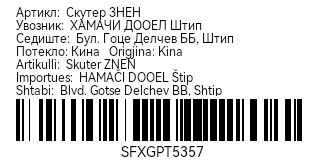
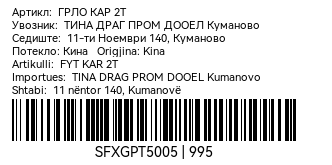
fix: include id

diff --git a/niimprint/barcode_gen.py b/niimprint/barcode_gen.py
@@ -1,12 +1,11 @@
 from io import BytesIO
-from PIL import Image
+from PIL import Image, ImageOps
 import barcode
 from wand.image import Image as WandImage
 from wand.drawing import Drawing as WandDrawing
 from wand.color import Color
 from barcode.writer import ImageWriter
 import requests
-import json
 import os
 
 
@@ -16,24 +15,10 @@ def calculate_dimensions(label_width_mm, label_height_mm, pixels_per_mm=8):
     return width_px, height_px
 
 
-def calculate_padding(padding_mm, pixels_per_mm=8):
-    return {k: int(v * pixels_per_mm) for k, v in padding_mm.items()}
-
-
-def generate_barcode(barcode_text, available_width, barcode_height, font_path):
+def generate_barcode(barcode_text, available_width, barcode_height):
     barcode_class = barcode.get_barcode_class("code128")
     barcode_writer = ImageWriter()
-    barcode_writer.set_options(
-        {
-            "module_width": 1,
-            "module_height": 1,
-            "write_text": False,
-            "font_size": 0,
-            "text": "test",
-            "human": "test",
-            "font_path": font_path,
-        }
-    )
+    barcode_writer.set_options({})
     barcode_image = barcode_class(barcode_text, writer=barcode_writer)
     barcode_buffer = BytesIO()
     barcode_image.write(barcode_buffer, options={"write_text": False, "quiet_zone": 0})
@@ -41,40 +26,49 @@ def generate_barcode(barcode_text, available_width, barcode_height, font_path):
     return barcode_img.resize((available_width, barcode_height), Image.NEAREST)
 
 
-def render_text_with_wand(text, width_px, height_px, font_path, font_size, x, y):
-    with WandImage(
-        width=width_px, height=height_px, background=Color("transparent")
-    ) as text_layer:
+def render_text_with_wand(text, font_path, font_size):
+    with WandImage(width=1, height=1) as tmp_image:
         with WandDrawing() as draw:
             draw.font = font_path
             draw.font_size = font_size
             draw.fill_color = Color("black")
-            draw.resolution = (300, 300)
+            draw.resolution = (900, 900)
 
-            draw.text(x, y, text)
+            metrics = draw.get_font_metrics(tmp_image, text)
+            width = int(metrics.text_width)
+            height = int(metrics.text_height)
 
-            draw(text_layer)
+            with WandImage(
+                width=width, height=height, background=Color("transparent")
+            ) as text_layer:
+                draw.text(0, int(metrics.ascender), text)
+                draw(text_layer)
 
-        text_layer.format = "png"
-        text_layer.alpha_channel = "activate"
-        text_buffer = BytesIO(text_layer.make_blob("png"))
-        return Image.open(text_buffer).convert("RGBA")
+                text_layer.format = "png"
+                text_layer.alpha_channel = "activate"
+                text_buffer = BytesIO(text_layer.make_blob("png"))
+
+    return Image.open(text_buffer).convert("RGBA")
 
 
-def generate_barcode_image(barcode_text, label_width_mm, label_height_mm, domain):
+def generate_barcode_image(
+    barcode,
+    label_width_mm,
+    label_height_mm,
+    domain,
+    include_id=False,
+):
+    horizontal_offset = 12
+    vertical_offset = 5
+
     pixels_per_mm = 8
     width_px, height_px = calculate_dimensions(
         label_width_mm, label_height_mm, pixels_per_mm
     )
 
-    padding_mm = {"top": 2.2, "right": 2.3, "left": 2}
-    padding_px = calculate_padding(padding_mm, pixels_per_mm)
+    print(f"Label dimensions: {width_px}px x {height_px}px")
 
-    available_width = width_px - padding_px["left"] - padding_px["right"]
-
-    response = requests.get(
-        f"https://{domain}/api/purchase-order?barcode={barcode_text}"
-    )
+    response = requests.get(f"https://{domain}/api/purchase-order?barcode={barcode}")
 
     if response.status_code != 200:
         print(response.text)
@@ -89,6 +83,12 @@ def generate_barcode_image(barcode_text, label_width_mm, label_height_mm, domain
     plt_company_name_alb = data["pltCompany"]["nameAlb"]
     plt_company_location = data["pltCompany"]["location"]
     plt_company_location_alb = data["pltCompany"]["locationAlb"]
+    register_id = data["product"]["id"]
+
+    barcode_text = barcode
+
+    if include_id:
+        barcode_text += f" | {register_id}"
 
     product_data = [
         f"Артикл:  {product_name}",
@@ -100,48 +100,58 @@ def generate_barcode_image(barcode_text, label_width_mm, label_height_mm, domain
         f"Shtabi:  {plt_company_location_alb}",
     ]
 
-    # use local path
     path = os.path.dirname(os.path.abspath(__file__))
     font_path = f"{path}/fonts/HarmonyOS_Sans_Regular.ttf"
 
-    image = Image.new("RGBA", (width_px, height_px), color=(255, 255, 255, 255))
+    image = Image.new("RGB", (width_px, height_px), color=(255, 255, 255))
 
-    product_font_size = int(height_px * 0.080)
-    text_height = product_font_size
-    spacing = int(height_px * 0.01)
-    current_y = padding_px["top"]
+    product_font_size = int(height_px * 0.072)
+    spacing = int(height_px * 0.005)
+    current_y = 0
 
-    for i, text in enumerate(product_data):
-        text_pil = render_text_with_wand(
-            text,
-            width_px,
-            height_px,
-            font_path,
-            product_font_size,
-            padding_px["left"],
-            current_y,
-        )
-        image.paste(text_pil, (0, 0), text_pil)
+    for text in product_data:
+        text_image = render_text_with_wand(text, font_path, product_font_size)
+        text_width, text_height = text_image.size
+        image.paste(text_image, (0, current_y), text_image)
         current_y += text_height + spacing
 
     barcode_height = int(height_px * 0.30)
-    barcode_img = generate_barcode(
-        barcode_text, available_width, barcode_height, font_path
-    )
-    image.paste(barcode_img, (padding_px["left"], current_y - text_height))
+
+    barcode_width = width_px - horizontal_offset * 3
+    barcode_img = generate_barcode(barcode_text, barcode_width, barcode_height)
+
+    # Center the barcode horizontally
+    barcode_x = (width_px - barcode_img.width) // 2
+    image.paste(barcode_img, (0, current_y))
 
     barcode_font_size = int(height_px * 0.09)
+    barcode_text_image = render_text_with_wand(
+        barcode_text, font_path, barcode_font_size
+    )
+    barcode_text_width, barcode_text_height = barcode_text_image.size
+
+    # Center the barcode text below the barcode
+    barcode_text_x = (barcode_width - barcode_text_width) // 2
 
     barcode_text_y = current_y + barcode_height + spacing
-    barcode_text_pil = render_text_with_wand(
-        barcode_text,
-        width_px,
-        height_px,
-        font_path,
-        barcode_font_size,
-        padding_px["left"] + 105,
-        barcode_text_y,
+    image.paste(
+        barcode_text_image, (barcode_text_x, barcode_text_y), barcode_text_image
     )
-    image.paste(barcode_text_pil, (0, 0), barcode_text_pil)
+
+    # Apply horizontal offset
+    if horizontal_offset > 0:
+        image = ImageOps.expand(
+            image, border=(horizontal_offset, 0, 0, 0), fill=(255, 255, 255)
+        )
+    elif horizontal_offset < 0:
+        image = image.crop((-horizontal_offset, 0, image.width, image.height))
+
+    # Apply vertical offset
+    if vertical_offset > 0:
+        image = ImageOps.expand(
+            image, border=(0, vertical_offset, 0, 0), fill=(255, 255, 255)
+        )
+    elif vertical_offset < 0:
+        image = image.crop((0, -vertical_offset, image.width, image.height))
 
     return image

diff --git a/niimprint/__main__.py b/niimprint/__main__.py
@@ -97,9 +97,38 @@ from printer import TCPTransport, PrinterClient, SerialTransport
     # required=True,
     help="Domain to print",
 )
+@click.option(
+    "-p",
+    "--preview",
+    type=click.BOOL,
+    default=False,
+    show_default=True,
+    help="Preview barcode",
+)
+@click.option(
+    "-id",
+    "--include-id",
+    type=click.BOOL,
+    default=False,
+    show_default=True,
+    help="Include ID",
+)
 def print_cmd(
-    model, conn, addr, density, rotate, image, verbose, copies, barcode, domain
+    model,
+    conn,
+    addr,
+    density,
+    rotate,
+    image,
+    verbose,
+    copies,
+    barcode,
+    domain,
+    preview,
+    include_id,
 ):
+
+    print(include_id)
     logging.basicConfig(
         level="DEBUG" if verbose else "INFO",
         format="%(levelname)s | %(module)s:%(funcName)s:%(lineno)d - %(message)s",
@@ -131,9 +160,10 @@ def print_cmd(
         density = 3
 
     if barcode is not None:
-        image = generate_barcode_image(barcode, 40, 20, domain)
-        save_and_open_image(image)
-        click.confirm("Contin/ue printing?", abort=True)
+        image = generate_barcode_image(barcode, 40, 20, domain, include_id)
+        if preview:
+            save_and_open_image(image)
+            click.confirm("Contin/ue printing?", abort=True)
     else:
         image = Image.open(image)
 
